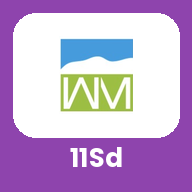
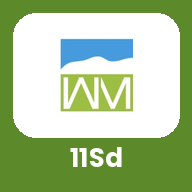
Add files via upload

diff --git a/index.html b/index.html
@@ -3,7 +3,7 @@
 <head>
 <meta charset="utf-8">
 <meta name="viewport" content="width=device-width,initial-scale=1,viewport-fit=cover">
-<meta name="theme-color" content="#8e44ad">
+<meta name="theme-color" content="#5c8a2a">
 <title>F11Sd 26/27 | FOSBOS Weilheim</title>
 <link rel="stylesheet" href="styles.css">
 
